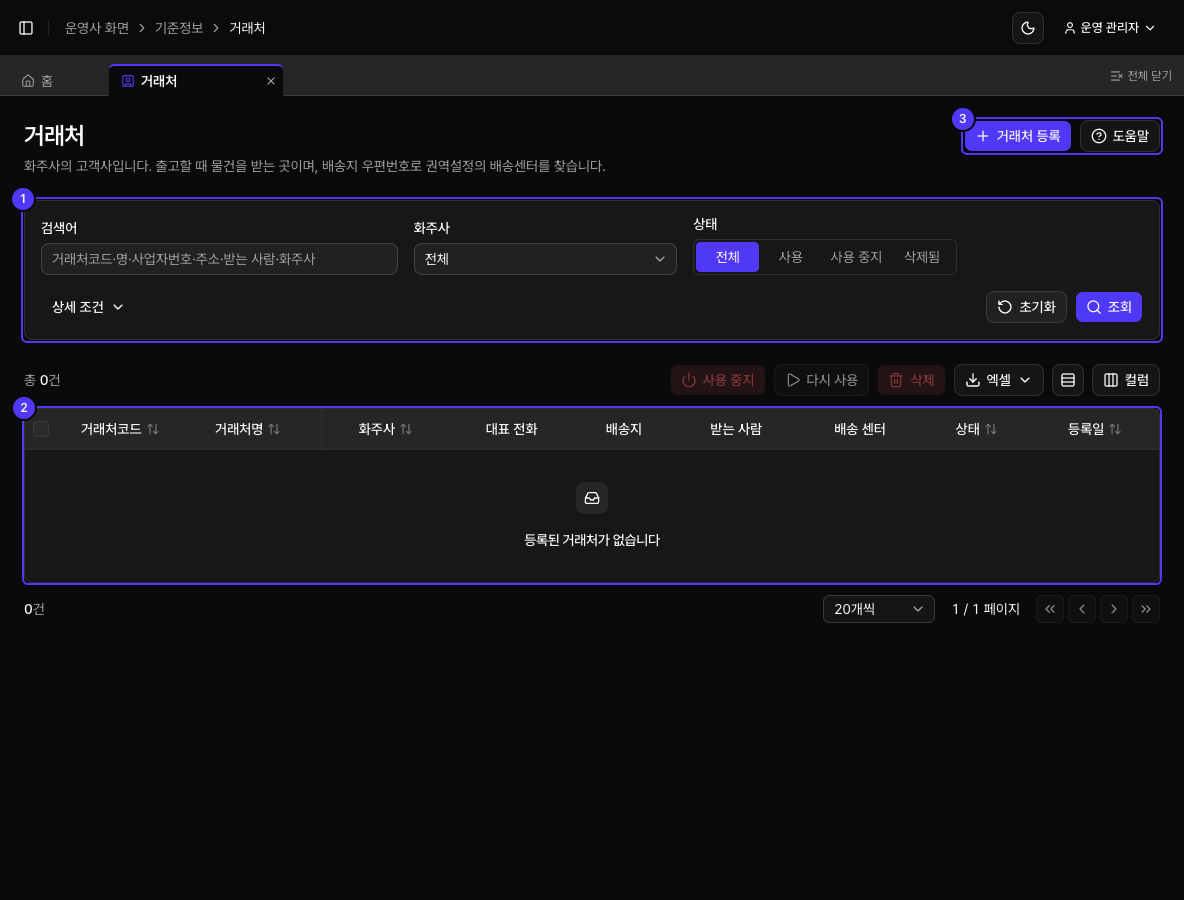
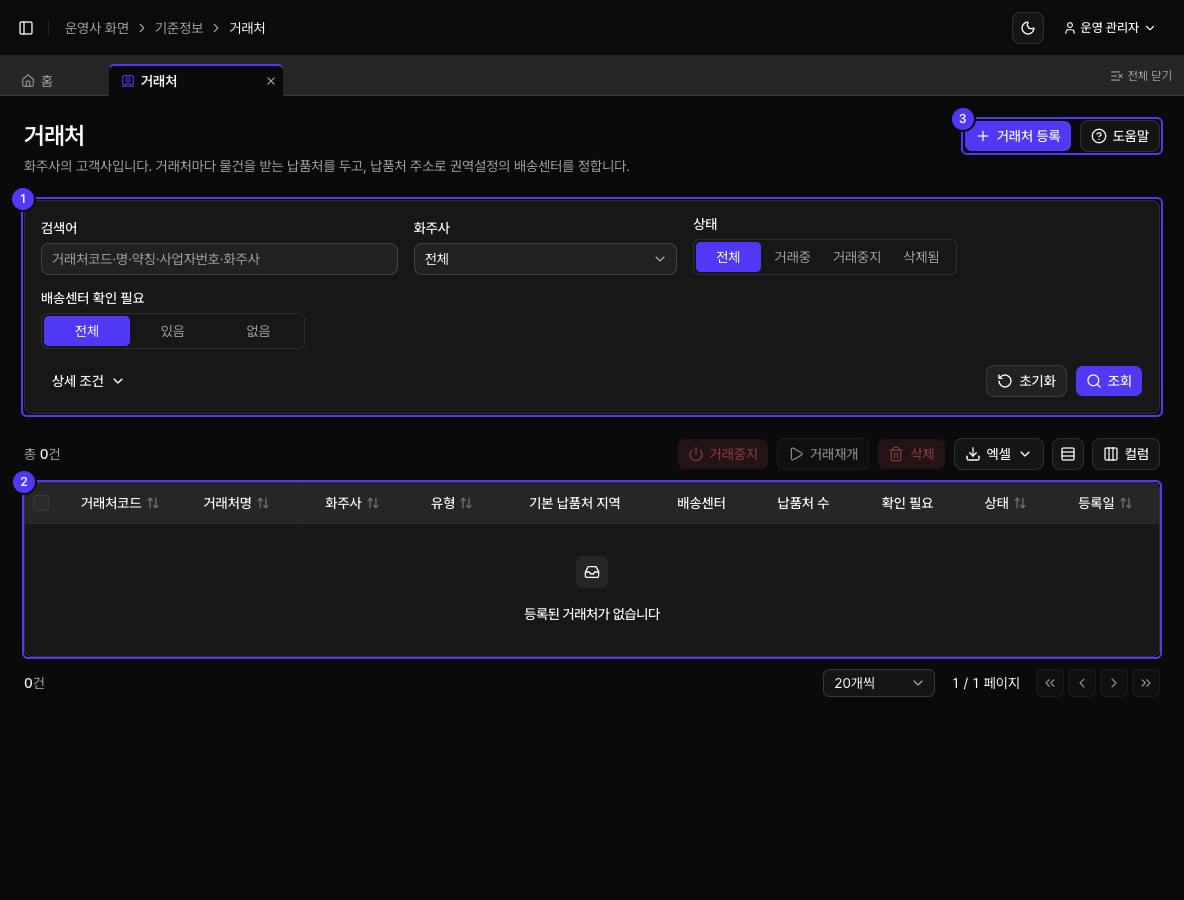
docs: 거래처 도움말·사진(목록·등록), 0082 결정 기록, ROADMAP ①②③ 단계
- 도움말: 납품처·배송센터(권역 자동/직접, 확인 필요 사유), 거래중지, 확인 필요 거르기
- 도움말 사진에 스크롤 위치 옵션(scrollTo) — 긴 입력 화면의 아래 섹션을 찍는다
- 납품처 수 표시 띄어쓰기

diff --git a/e2e/help-shots.spec.ts b/e2e/help-shots.spec.ts
@@ -29,6 +29,8 @@ type Shot = {
   account: Account
   // 화면을 원하는 모습으로 만드는 동작 (펼치기·고르기 등)
   prepare?: (page: Page) => Promise<void>
+  // 첫 화면 대신 이 요소를 맨 위로 올려 찍는다 (긴 입력 화면의 아래쪽 섹션)
+  scrollTo?: (page: Page) => Locator
   markers: Marker[]
 }
 
@@ -113,6 +115,24 @@ const SHOTS: Shot[] = [
   },
   list('/admin/master/items'),
   list('/admin/master/customers'),
+  {
+    // 거래처 등록: 화주사를 고르면 [납품처 추가]가 열린다 — ① 주소 ② 납품처 ③ 저장 (0082)
+    src: '/help/admin/master/customers/new.png',
+    url: '/admin/master/customers/new',
+    account: 'admin',
+    prepare: async (page) => {
+      await page.locator('#customer-shipperId').click()
+      await page.getByRole('option', { name: /GANA/ }).click()
+      await expect(page.getByRole('button', { name: '납품처 추가' })).toBeEnabled()
+    },
+    // 주소·납품처 섹션이 한 화면에 들어오게
+    scrollTo: (page) => page.locator('#section-address'),
+    markers: [
+      { label: '1', target: (page) => page.locator('#section-address') },
+      { label: '2', target: (page) => page.locator('#section-ship-to') },
+      { label: '3', target: (page) => page.getByRole('button', { name: '저장' }) },
+    ],
+  },
   list('/admin/master/units'),
   {
     // 운영사 추가 단위 '근' (중량): 환산 섹션과 "1 근 = 0.6 KG" 미리보기가 보이게
@@ -231,7 +251,12 @@ async function addMarkers(page: Page, markers: Marker[]) {
 }
 
 // 지금 화면을 라이트·다크 두 장으로 (새로 불러오지 않고 테마만 바꾼다 → 입력·미리보기 상태가 그대로)
-async function shoot(page: Page, src: string, markers: Marker[]) {
+async function shoot(
+  page: Page,
+  src: string,
+  markers: Marker[],
+  scrollTo?: (page: Page) => Locator,
+) {
   // 목록·버튼을 다 불러온 뒤에 (불러오는 중의 회색 상자를 찍지 않게)
   await page.waitForLoadState('networkidle')
   await expect(page.locator('[data-slot="skeleton"]')).toHaveCount(0)
@@ -243,6 +268,7 @@ async function shoot(page: Page, src: string, markers: Marker[]) {
   // 개발 모드 표시(Next 'N' 버튼)는 사진에서 뺀다
   await page.addStyleTag({ content: 'nextjs-portal { display: none !important; }' })
   await page.evaluate(() => window.scrollTo(0, 0))
+  if (scrollTo) await scrollTo(page).evaluate((el) => el.scrollIntoView({ block: 'start' }))
   for (const scheme of ['light', 'dark'] as const) {
     await page.emulateMedia({ colorScheme: scheme })
     const html = expect(page.locator('html'))
@@ -330,7 +356,7 @@ for (const shot of SHOTS) {
     await page.goto(shot.url)
     await expect(page.getByRole('heading', { level: 1 })).toBeVisible()
     await shot.prepare?.(page)
-    await shoot(page, shot.src, shot.markers)
+    await shoot(page, shot.src, shot.markers, shot.scrollTo)
     await page.context().close()
   })
 }

diff --git a/src/app/admin/master/customers/ship-to-section.tsx b/src/app/admin/master/customers/ship-to-section.tsx
@@ -74,7 +74,7 @@ export function ShipToSection({
     <div className="space-y-3">
       <div className="flex flex-wrap items-center justify-between gap-2">
         <p className="text-xs text-muted-foreground">
-          {rows.length} 곳 · 기본 납품처 1곳과 사용 중 1곳 이상이 필요합니다. 주문에 납품처가 없으면
+          {rows.length}곳 · 기본 납품처 1곳과 사용 중 1곳 이상이 필요합니다. 주문에 납품처가 없으면
           기본 납품처로 갑니다.
         </p>
         <Button

diff --git a/src/content/help/admin/master/customers.md b/src/content/help/admin/master/customers.md
@@ -1,9 +1,9 @@
 ---
 title: 거래처
-summary: 화주사의 고객사(물건을 받는 곳)를 등록하고, 배송지와 담당자를 관리합니다.
+summary: 화주사의 고객사를 등록하고, 물건을 받는 납품처와 배송센터·담당자를 관리합니다.
 ---
 
-거래처는 **화주사별**로 관리합니다. 같은 거래처코드라도 화주사가 다르면 다른 거래처입니다. 출고(이후 단계) 때 받는 곳으로 고릅니다. 센터 직원은 소속 센터를 이용하는 화주사의 거래처만 보고 다룹니다.
+거래처는 **화주사별**로 관리합니다. 같은 거래처코드라도 화주사가 다르면 다른 거래처입니다. 거래처마다 실제로 물건을 받는 **납품처**를 하나 이상 두고, 납품처 주소로 권역설정의 **배송센터**를 정합니다. 센터 직원은 소속 센터를 이용하는 화주사의 거래처만 보고 다룹니다.
 
 ![거래처 목록](/help/admin/master/customers/list.png)
 
@@ -11,31 +11,64 @@ summary: 화주사의 고객사(물건을 받는 곳)를 등록하고, 배송지
 
 ## 검색 · 목록 보기
 
-- 검색어(거래처코드·명·사업자번호·주소·받는 사람·화주사), **화주사**, **상태**로 찾고, [조회] 또는 Enter로 적용합니다. 등록일은 [상세 조건]에 있습니다.
+- 검색어(거래처코드·명·약칭·사업자번호·화주사), **화주사**, **상태**, **배송센터 확인 필요**로 찾고, [조회] 또는 Enter로 적용합니다. 유형·그룹·주문 주소 사용·등록 경로·등록일은 [상세 조건]에 있습니다.
 - 행이나 거래처코드를 누르면 수정 화면으로 갑니다.
 
 | 칸 | 뜻 |
 | - | - |
-| 배송 센터 | 출고 때 배송할 센터: `서울센터 (지정)` = 거래처에 지정, `이천센터 (권역)` = 배송지 우편번호로 권역설정에서 찾음, **`미배정`**(빨강) = 그 우편번호에 배정이 없음 → 권역설정에서 배정하거나 거래처에 배송 센터를 지정하세요 |
+| 기본 납품처 지역 | 기본 납품처 주소의 시·군·구 |
+| 배송센터 | 기본 납품처의 배송센터 |
+| 확인 필요 | 배송센터를 정하지 못한 납품처 수(주황). 거래처를 열어 납품처에서 센터를 고르세요 |
+
+> [!TIP]
+> **배송센터 확인 필요 = 있음**으로 거르면 손봐야 할 거래처만 모아 볼 수 있습니다.
 
 <!-- 권한: master.customers.create -->
 ## [거래처 등록]
 
-1. **화주사**를 고르고 **거래처명**을 입력합니다. 거래처코드를 비우면 자동으로 부여되는 시스템 코드(`CU00000001` 모양)를 씁니다. 거래처코드는 같은 화주사 안에서 겹칠 수 없습니다.
-2. **배송지**: [주소 검색]으로 주소를 고르면 우편번호·주소와 함께 **지역 코드**가 저장되어 권역설정의 배송센터를 찾을 수 있습니다. 주소를 직접 고치면 지역 코드는 비워집니다 — 가능하면 검색으로 넣으세요.
-3. **배송 센터**(선택): 주소와 상관없이 이 거래처는 이 센터로 배송합니다. 그 화주사가 이용하는 센터만 고를 수 있고, 비우면 권역설정(배송지 우편번호)으로 정합니다.
-4. 받는 사람·연락처·배송 메모를 넣습니다.
-4. **담당자**는 최대 5명, 대표 1명입니다. 담당 업무 목록은 시스템 > 공통코드의 `CONTACT_ROLE`입니다.
-5. [저장]하면 그 자리에 "등록했습니다."가 나오고 입력 칸이 잠깁니다. [계속 등록]을 누르면 빈 양식으로 다음 거래처를 이어서 넣고, [등록한 항목 보기]를 누르면 수정 화면으로 갑니다.
+![거래처 등록](/help/admin/master/customers/new.png)
+
+① 거래처 주소 · ② 납품처 · ③ [저장]
+
+1. **화주사**를 고르고 **거래처코드**·**거래처명**을 입력합니다. 거래처코드는 화주가 쓰는 코드(영문·숫자·`-`·`_`, 소문자는 대문자로)이며 **필수**이고 **등록 후 바꿀 수 없습니다.** 같은 화주사 안에서 겹칠 수 없습니다.
+2. **주소·연락처**: [주소 검색]으로 거래처(본사) 주소를 고릅니다.
+3. **납품처**를 넣지 않으면 [저장]할 때 **거래처 주소로 기본 납품처**가 만들어집니다(코드·이름은 거래처와 같게). 받는 곳이 따로 있으면 [납품처 추가]로 직접 넣습니다.
+4. **출고 조건**(선택): 최소 잔여 유통기한(일)·비율(%)보다 짧게 남은 재고는 이 거래처로 출고하지 않습니다(출고 작업에서 적용).
+5. **담당자**는 최대 5명, 대표 1명입니다. 담당 업무 목록은 시스템 > 공통코드의 `CONTACT_ROLE`, 거래처 유형은 `PARTNER_TYPE`입니다.
+6. [저장]하면 "등록했습니다."가 나오고 입력 칸이 잠깁니다. [계속 등록]은 빈 양식으로, [등록한 항목 보기]는 수정 화면으로 갑니다.
+
+> [!NOTE]
+> 배송센터를 정하지 못한 납품처가 있으면 저장은 되고, 메시지 끝에 "배송센터 확인이 필요한 납품처가 있습니다: 코드"가 붙습니다.
 
 <!-- 권한: master.customers.update -->
-## 수정 · 사용 중지
+## 납품처 · 배송센터
 
-- 화주사를 뺀 모든 칸을 고칠 수 있습니다. **화주사는 바꿀 수 없습니다.**
-- 사용 중지하면 새 출고에서 고를 수 없게 됩니다. 기록은 그대로입니다. 목록에서 여러 곳을 골라 한 번에 처리할 수도 있습니다.
+- 납품처 줄을 누르면 오른쪽에 편집 창이 열립니다. 고친 뒤 [적용]하면 표에 반영되고, 화면의 [저장]을 눌러야 실제로 저장됩니다.
+- **기본 납품처**(라디오)는 꼭 1곳이며, 주문에 납품처가 없으면 기본 납품처로 갑니다. 사용 중인 납품처도 1곳 이상 있어야 합니다. 그래서 기본 납품처·마지막 사용 중 납품처는 [빼기]가 잠깁니다.
+- **거래처 주소와 동기화**(기본 납품처만): 켜 두면 거래처 주소를 바꿀 때 납품처 주소도 바뀌고 배송센터를 다시 정합니다.
+- **배송센터**
+  1. **권역 자동**: [저장]할 때 주소로 권역설정을 찾아 정합니다. 주소를 고르면 "이 지역의 기본 배송센터"가 미리 보입니다.
+  2. **직접 선택**: 그 화주사가 이용하는 센터만 고를 수 있습니다. 지역 기본 센터와 다르면 **권역 불일치**(⚠)로 표시됩니다.
+- 주소·센터를 바꾸지 않은 납품처는 저장해도 지정이 그대로입니다.
+
+| 표시 | 뜻 |
+| - | - |
+| 지정 완료 | 배송센터가 정해짐 (권역 자동·수동·연동) |
+| 확인 필요 | 정하지 못함. 사유: 권역설정에 배정되지 않은 지역 / 여러 센터가 섞인 지역 / 주소 정제 실패 / 화주 이용 센터가 아님 / 센터 일시중지·폐쇄 |
+| 정제 등급 | 주소를 얼마나 정확히 찾았는지 (A·B 정확, C·D 지역까지만, F 실패) |
+
+> [!WARNING]
+> "확인 필요" 납품처로는 배송센터를 자동으로 정할 수 없습니다. 권역설정에서 그 지역을 배정하거나, 납품처에서 센터를 직접 고르세요.
+
+<!-- 권한: master.customers.update -->
+## 수정 · 거래중지
+
+- 화주사·거래처코드·납품처코드를 뺀 칸을 고칠 수 있습니다.
+- **연동 정보**(등록 경로·마지막 연동)는 읽기만 합니다.
+- **거래중지**하면 새 출고요청을 받지 않습니다. 진행 중인 주문은 그대로 처리합니다. [거래재개]로 되돌리며, 목록에서 여러 곳을 골라 한 번에 처리할 수도 있습니다.
 
 <!-- 권한: master.customers.delete -->
 ## 삭제 · 되살리기
 
-- 출고 기록이 없는 거래처만 지울 수 있습니다. 지운 거래처는 상태 거르기의 **삭제됨**에서 골라 [되살리기]로 되돌립니다.
+- 출고 기록이 없는 거래처만 지울 수 있습니다. 납품처도 함께 지워집니다. 지운 거래처는 상태 거르기의 **삭제됨**에서 골라 [되살리기]로 되돌립니다.
 - 같은 화주사에 같은 거래처코드가 다시 생겼으면 되살릴 수 없습니다.

diff --git a/docs/decisions/0082-customer-ship-to.md b/docs/decisions/0082-customer-ship-to.md
@@ -1,0 +1,59 @@
+# 0082. 거래처 정의서 반영 — 납품처(tb_ship_to) · 배송센터 지정
+
+- 날짜: 2026-11-17
+- 상태: 채택 (① 단계 완료, ②·③ 예정)
+- 관련: 0043 (거래처 첫 설계), 0072·0076 (거래처 배송센터·권역설정), 0080 (화주사 상태), 0081 (연동 API 틀), 0038 (논리 삭제·버전)
+- 정의서: `docs/specs/customer.md` (`tb_partner`는 `tb_customer`로 읽음)
+- 코드: `src/lib/customers/` (`ship-to-center.ts` 배송센터 지정, `customers.ts` 저장), `src/app/admin/master/customers/` (화면·납품처 드로어)
+- 마이그레이션: `20261118030000_customer_ship_to`
+
+## 사용자 결정 (모두 추천안)
+
+| 항목 | 결정 |
+| --- | --- |
+| 표 이름 | `tb_customer` 유지 (정의서의 `tb_partner` → `tb_customer`) |
+| 거래처코드 | 필수, 등록 후 수정 불가 (비우면 시스템 코드를 쓰던 규칙은 버림) |
+| 담당자 | 지금 담당자 표(`tb_customer_contact`) 유지 |
+| 작업 범위 | 세 단계로 나눠 병합 — ① 표·납품처·배송센터 지정·거래처 화면·목록, ② 납품처 목록(확인 필요 처리·일괄 지정)·권역설정 변경 연동, ③ 거래처 API 5개·엑셀 업로드·문서 |
+| 납품처 저장 | 거래처 [저장] 때 함께 (따로 저장 버튼 없음) |
+| 2차 항목 | 이번엔 빼기 (좌표 활용·대량 정제 등) |
+
+## 결정
+
+### 거래처와 납품처를 나눈다
+
+- 거래처(`tb_customer`)는 주문 상대(본사), 납품처(`tb_ship_to`)는 실제로 물건을 받는 곳이다. 거래처 1 : 납품처 N.
+- 거래처의 옛 배송지 칸(받는 사람·배송 메모·배송센터)은 지웠다. 마이그레이션이 기존 배송지를 **기본 납품처**로 옮긴다.
+- 납품처 규칙
+  - 코드는 거래처 안에서 고유(부분 고유 인덱스, 지운 줄 제외), 등록 후 수정 불가.
+  - **기본 납품처는 정확히 1곳**(부분 고유 인덱스), 사용 중 납품처 1곳 이상.
+  - 납품처 없이 거래처를 등록하면 거래처 주소로 기본 납품처를 만든다(`system_created_yn = 'Y'`, 코드·이름은 거래처와 같게).
+  - 기본 납품처의 **거래처 주소 동기화**(`addr_sync_yn`): 켜 두면 거래처 주소를 바꿀 때 납품처 주소·배송센터도 다시 정한다.
+- 원본 주소(`raw_*`)와 정제 결과(`zip_cd`·`addr`·`bjd_cd`·`addr_grade` 등)를 따로 저장한다. 화면 입력 칸에는 원본을 보여 준다.
+
+### 배송센터 지정 (`assignShipToCenter`)
+
+1. 주소 정제(`normalizeAddress`) → 권역 기준 센터(`resolveCenterByAddress`) → 화주 이용 센터(ShipperCenter ACTIVE) 확인.
+2. 센터를 직접 고른 경우: 없는 센터 `INVALID_CENTER_CD`, 이용 센터 아님 `NOT_CLIENT_CENTER`, 일시중지·폐쇄 `CENTER_INACTIVE`. 통과하면 지정 구분 `MANUAL`(화면)·`IF`(연동). 권역 기준과 다르면 `region_mismatch_yn = 'Y'`.
+3. 고르지 않은 경우(권역 자동): 권역 결과가 없으면 `REGION_UNASSIGNED`·`REGION_MIXED`, 정제 실패·등급 미달이면 `ADDR_NOT_RESOLVED`. 통과하면 `AUTO`.
+4. 정하지 못하면 **"확인 필요"(`NEED_CONFIRM`) + 사유 코드**로 저장한다. 반려는 연동 정책이 `AUTO_REJECT`·`REQUIRED`일 때만(③ API에서 사용). 화면 저장은 늘 저장하고 메시지로 알린다.
+5. 주소와 센터 선택을 바꾸지 않은 납품처는 다시 계산하지 않는다. 연동으로 받은 지정(`IF`)을 화면 저장이 덮어쓰지 않게 하기 위함이다.
+6. 권역설정이 바뀌면 `AUTO`만 따라 바뀐다(② 단계에서 연동).
+
+### 값 목록
+
+- 프로그램이 값에 따라 동작을 바꾸는 값(거래처 상태, 주문 주소 방식, 등록 경로, 납품처 상태, 지정 구분·상태·사유)은 **상수 + DB 검사 조건**(`customer-codes.ts`, 0040)으로 둔다.
+- 거래처 유형만 공통코드 `PARTNER_TYPE`.
+- 거래처 상태는 거래중 / 거래중지. 거래중지는 신규 출고요청만 막는다(출고 작업에서 적용).
+
+### 화면
+
+- 거래처 편집에 "납품처" 섹션을 둔다(표 + 오른쪽 드로어). 드로어 [적용]은 화면 값만 바꾸고, 거래처 [저장] 한 번에 함께 저장한다.
+- 드로어는 주소를 고르면 "이 지역의 기본 배송센터"를 미리 보여 준다(`previewShipToCenterAction`). 직접 고른 센터가 다르면 권역 불일치를 경고한다.
+- 저장 뒤 편집 페이지는 `key={rowVersion}`으로 다시 그려 새 납품처 키와 지정 결과를 보여 준다.
+- 목록: 기본 납품처 지역(시군구)·배송센터·납품처 수·확인 필요 건수, "배송센터 확인 필요" 거르기, 거래중지/거래재개 일괄.
+
+## 버린 안
+
+- **납품처를 따로 저장하는 별도 화면만 두기**: 거래처를 만들 때 납품처까지 한 번에 넣는 일이 대부분이라, ① 단계는 거래처 화면 안에서 함께 저장한다. 많은 납품처를 다루는 목록 메뉴는 ②에서 만든다.
+- **화면 저장 때도 정하지 못하면 반려**: 권역설정이 아직 덜 된 운영 초기에 거래처 등록이 막힌다. 저장하고 "확인 필요"로 모아 처리하게 했다.

diff --git a/docs/ROADMAP.md b/docs/ROADMAP.md
@@ -113,6 +113,9 @@
   - [x] 화주 포털 품목 화면 (같은 폼, 외부 코드 숨김, 화주사는 자기 화주사로 고정)
 - [x] 단위 환산 공통 함수 + 테스트 (BigInt 고정 소수점, `src/lib/units/convert.ts`, 0042)
 - [x] 화주사 거래처 관리 (기본·배송지·담당자, 법정동코드로 배송권역 맞추기, 운영사 화면 — 포털은 출고 때, 0043)
+  - [x] 거래처 정의서 ①: 납품처 표(`tb_ship_to`)·배송센터 지정(권역 자동/수동, 확인 필요·사유·권역 불일치)·거래처 칸 정리·화면(납품처 드로어)·목록 (0082)
+  - [ ] 거래처 정의서 ②: 납품처 목록 메뉴(확인 필요 처리·배송센터 일괄 지정·권역 기준 재지정) + 권역설정 변경 미리보기·확정 연동 (0082)
+  - [ ] 거래처 정의서 ③: 거래처 API 5개(upsert·부분 수정·건별 납품처 결과)·엑셀 업로드·API 필드 대응표 (0082)
 
 완료 기준: 로트를 쓰는 화주사와 안 쓰는 화주사의 품목을 각각 등록하고, 환산단위가 올바르게 계산된다. → 완료 (2026-11-15: 품목 테스트 — 화주사 기본값 로트 사용/안 함·적용값, 환산 함수 테스트)
 
